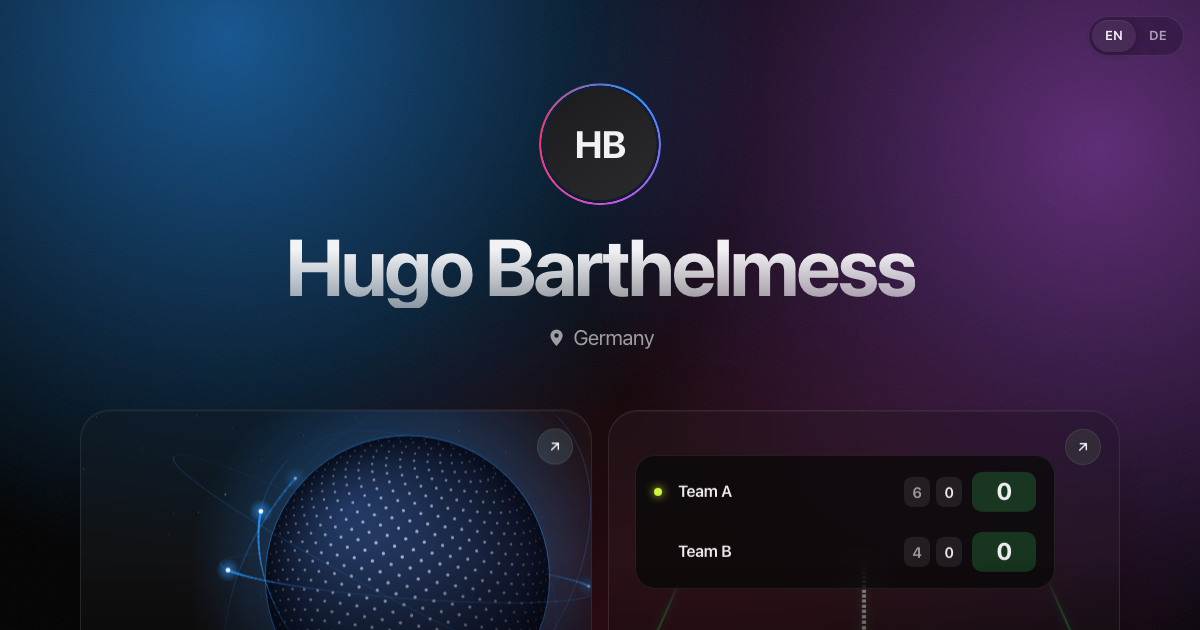
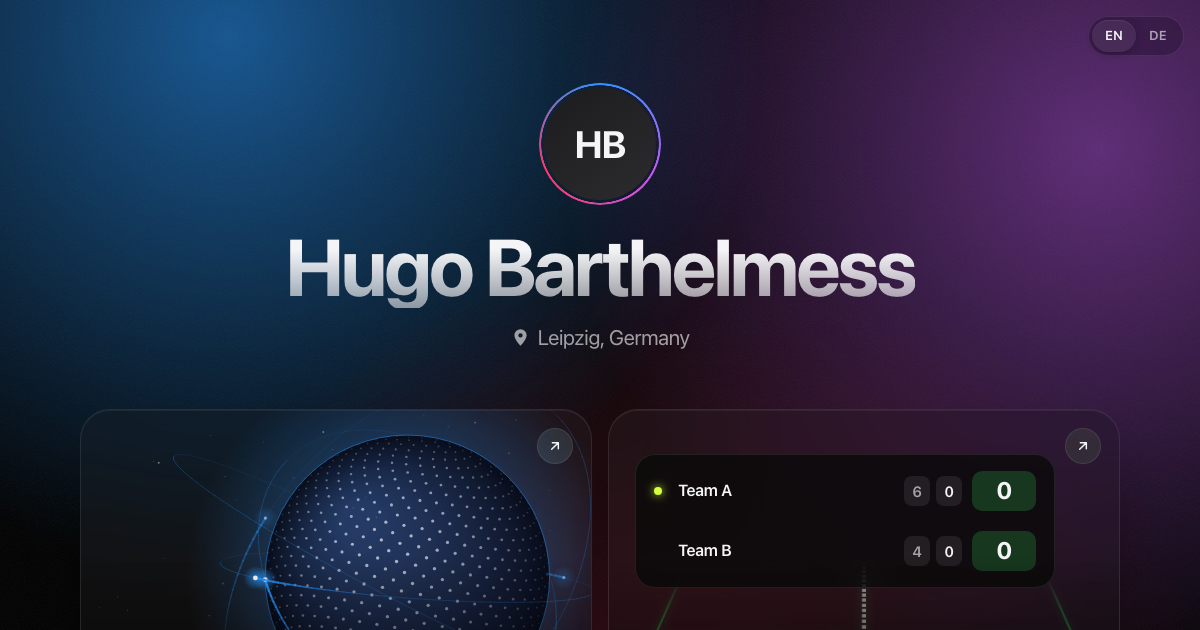
feat: Ort Leipzig, Vorschaubild neu

diff --git a/index.html b/index.html
@@ -44,7 +44,7 @@
         <h1 class="name">Hugo Barthelmess</h1>
         <p class="place">
           <svg class="pin" viewBox="0 0 24 24" aria-hidden="true"><path d="M12 2.5a7 7 0 0 0-7 7c0 5 7 12 7 12s7-7 7-12a7 7 0 0 0-7-7Zm0 9.5a2.5 2.5 0 1 1 0-5 2.5 2.5 0 0 1 0 5Z"/></svg>
-          <span data-l="en">Germany</span><span data-l="de">Deutschland</span>
+          <span data-l="en">Leipzig, Germany</span><span data-l="de">Leipzig</span>
         </p>
       </header>
 

diff --git a/README.md b/README.md
@@ -21,7 +21,7 @@ npm run preview  # built site with the production Content-Security-Policy
 - Photo: put a square `public/avatar.jpg` (at least 336 × 336 px). Without it the "HB" monogram shows.
 - `public/og.png` (1200 × 630) is the link preview image. Regenerate it after visible changes, e.g.
   with headless Chrome against `npm run dev`:
-  `"/Applications/Google Chrome.app/Contents/MacOS/Google Chrome" --headless=new --hide-scrollbars --force-dark-mode --window-size=1200,630 --virtual-time-budget=10000 --screenshot=public/og.png "http://localhost:5173/?lang=en"`
+  `"/Applications/Google Chrome.app/Contents/MacOS/Google Chrome" --headless=new --hide-scrollbars --force-dark-mode --force-prefers-reduced-motion --window-size=1200,630 --virtual-time-budget=6000 --screenshot=public/og.png "http://localhost:5173/?lang=en"`
 
 ## Deployment
 
